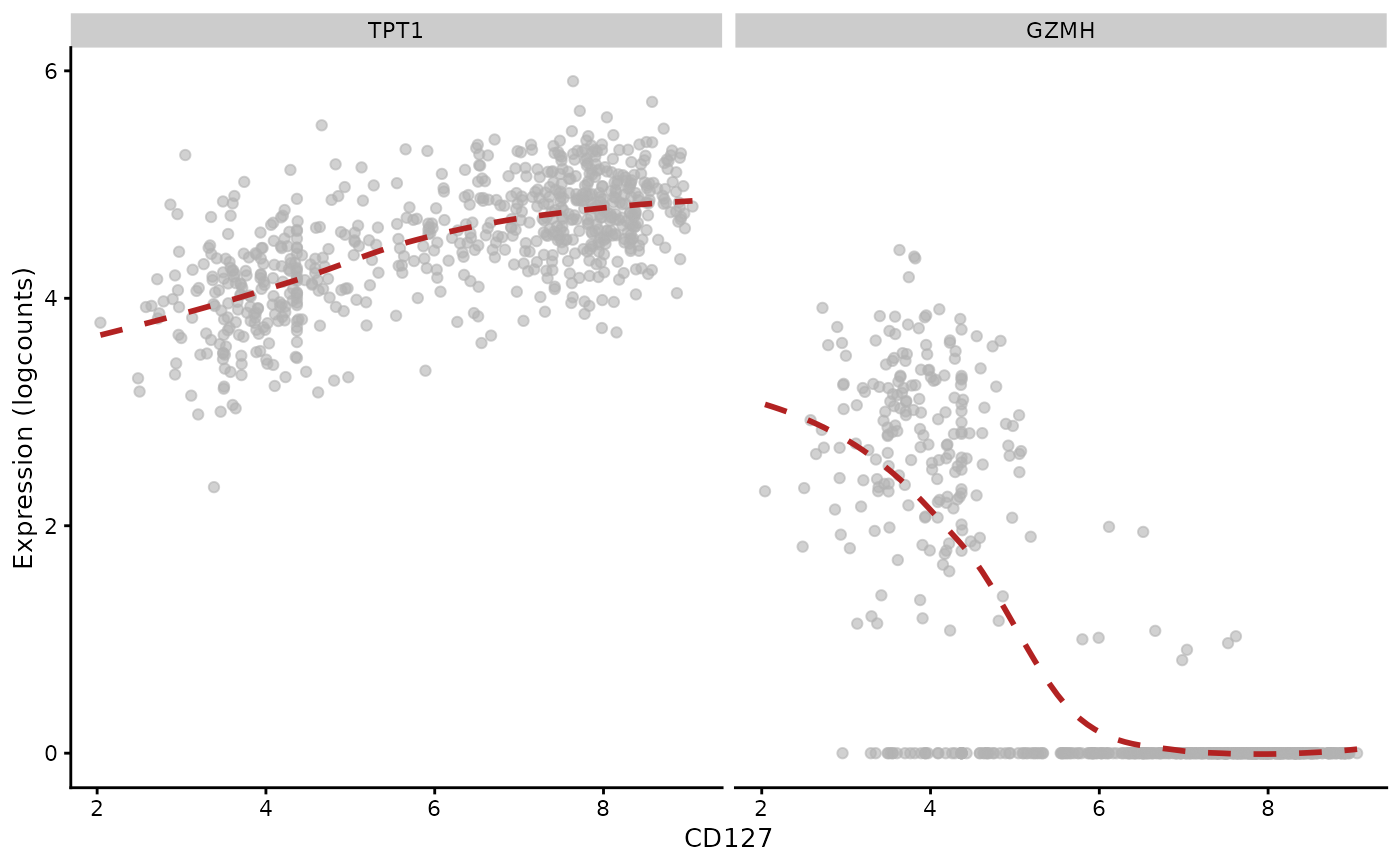
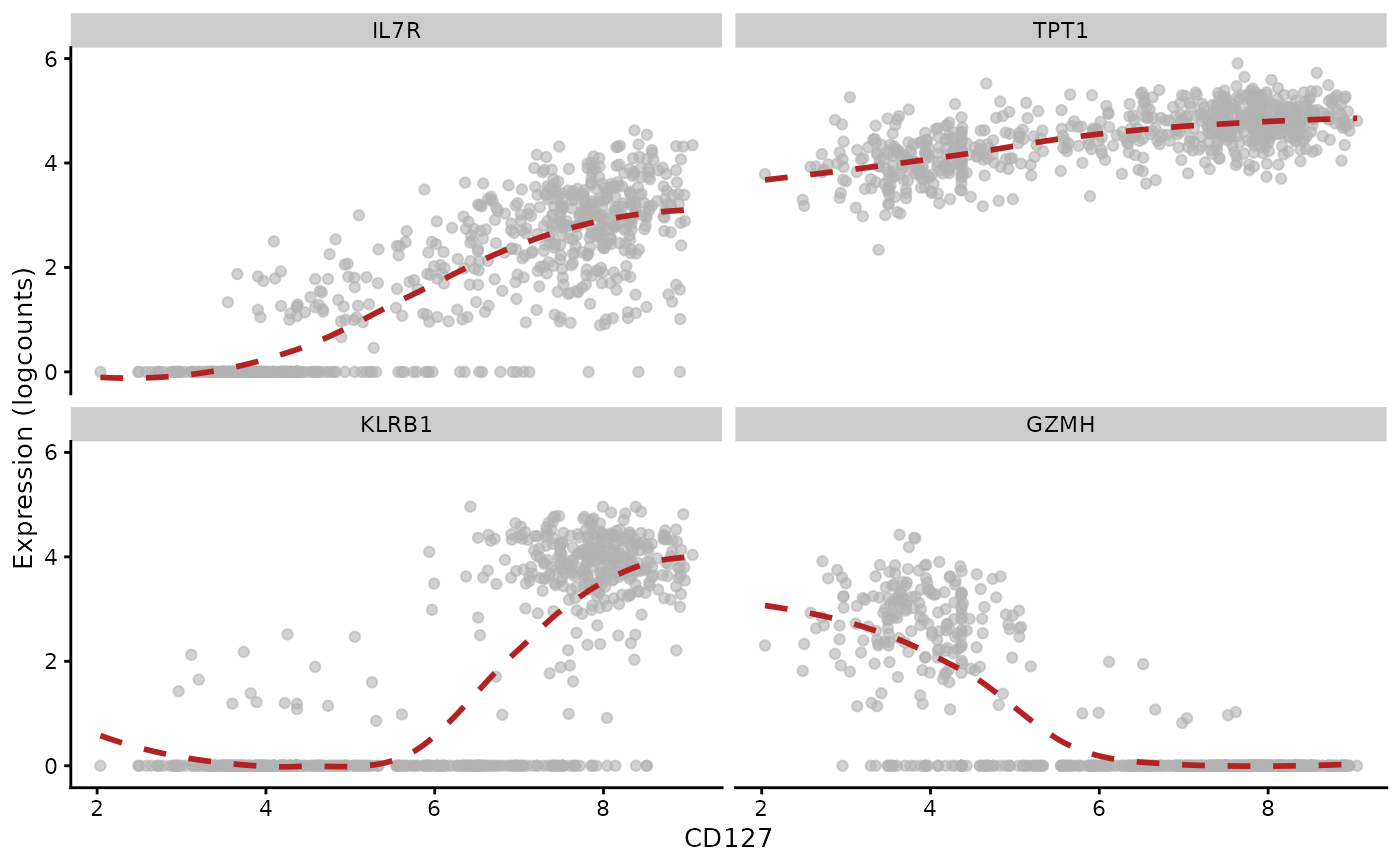
docs and vig

diff --git a/docs/articles/compch12.html b/docs/articles/compch12.html
@@ -203,13 +203,23 @@
 <span><span class="co"># organize the totalVI into SCE with altExp</span></span>
 <span></span>
 <span><span class="va">totsce</span> <span class="op">=</span> <span class="fu"><a href="https://rdrr.io/pkg/SingleCellExperiment/man/SingleCellExperiment.html" class="external-link">SingleCellExperiment</a></span><span class="op">(</span><span class="fu">SimpleList</span><span class="op">(</span>logcounts<span class="op">=</span><span class="fu"><a href="https://rdrr.io/r/base/t.html" class="external-link">t</a></span><span class="op">(</span><span class="va">totvi_denoised_rna</span><span class="op">)</span><span class="op">)</span><span class="op">)</span> <span class="co"># FALSE name</span></span>
+<span><span class="fu"><a href="https://rdrr.io/pkg/SummarizedExperiment/man/SummarizedExperiment-class.html" class="external-link">rowData</a></span><span class="op">(</span><span class="va">totsce</span><span class="op">)</span> <span class="op">=</span> <span class="fu">S4Vectors</span><span class="fu">::</span><span class="fu"><a href="https://rdrr.io/pkg/S4Vectors/man/DataFrame-class.html" class="external-link">DataFrame</a></span><span class="op">(</span><span class="va">fullvi</span><span class="op">$</span><span class="va">var</span><span class="op">)</span></span>
+<span><span class="fu"><a href="https://rdrr.io/r/base/colnames.html" class="external-link">rownames</a></span><span class="op">(</span><span class="va">totsce</span><span class="op">)</span> <span class="op">=</span> <span class="fu"><a href="https://rdrr.io/r/base/colnames.html" class="external-link">rownames</a></span><span class="op">(</span><span class="va">fullvi</span><span class="op">$</span><span class="va">var</span><span class="op">)</span></span>
+<span><span class="fu"><a href="https://rdrr.io/pkg/SummarizedExperiment/man/SummarizedExperiment-class.html" class="external-link">rowData</a></span><span class="op">(</span><span class="va">totsce</span><span class="op">)</span><span class="op">$</span><span class="va">Symbol</span> <span class="op">=</span> <span class="fu"><a href="https://rdrr.io/r/base/colnames.html" class="external-link">rownames</a></span><span class="op">(</span><span class="va">totsce</span><span class="op">)</span></span>
 <span><span class="va">nn</span> <span class="op">=</span> <span class="fu"><a href="https://rdrr.io/pkg/SingleCellExperiment/man/SingleCellExperiment.html" class="external-link">SingleCellExperiment</a></span><span class="op">(</span><span class="fu">SimpleList</span><span class="op">(</span>logcounts<span class="op">=</span><span class="fu"><a href="https://rdrr.io/r/base/t.html" class="external-link">t</a></span><span class="op">(</span><span class="va">totvi_denoised_protein</span><span class="op">)</span><span class="op">)</span><span class="op">)</span> <span class="co"># FALSE name</span></span>
 <span><span class="fu"><a href="https://rdrr.io/pkg/SingleCellExperiment/man/reducedDims.html" class="external-link">reducedDims</a></span><span class="op">(</span><span class="va">nn</span><span class="op">)</span> <span class="op">=</span> <span class="fu"><a href="https://rdrr.io/r/base/list.html" class="external-link">list</a></span><span class="op">(</span>UMAP<span class="op">=</span><span class="va">totvi_umap</span><span class="op">)</span></span>
 <span><span class="fu"><a href="https://rdrr.io/pkg/SingleCellExperiment/man/altExps.html" class="external-link">altExp</a></span><span class="op">(</span><span class="va">totsce</span><span class="op">)</span> <span class="op">=</span> <span class="va">nn</span></span>
 <span><span class="fu"><a href="https://rdrr.io/pkg/SingleCellExperiment/man/altExps.html" class="external-link">altExpNames</a></span><span class="op">(</span><span class="va">totsce</span><span class="op">)</span> <span class="op">=</span> <span class="st">"denoised_protein"</span></span>
 <span><span class="va">totsce</span><span class="op">$</span><span class="va">leiden</span> <span class="op">=</span> <span class="va">totvi_leiden</span></span>
 <span><span class="fu"><a href="https://rdrr.io/pkg/SingleCellExperiment/man/altExps.html" class="external-link">altExp</a></span><span class="op">(</span><span class="va">totsce</span><span class="op">)</span><span class="op">$</span><span class="va">leiden</span> <span class="op">=</span> <span class="va">totvi_leiden</span></span>
-<span><span class="fu"><a href="https://rdrr.io/pkg/SingleCellExperiment/man/altExps.html" class="external-link">altExp</a></span><span class="op">(</span><span class="va">totsce</span><span class="op">)</span><span class="op">$</span><span class="va">ch12.clusters</span> <span class="op">=</span> <span class="fu"><a href="https://rdrr.io/pkg/SingleCellExperiment/man/altExps.html" class="external-link">altExp</a></span><span class="op">(</span><span class="va">ch12sce</span><span class="op">[</span>,<span class="va">comm</span><span class="op">]</span><span class="op">)</span><span class="op">$</span><span class="va">label</span></span></code></pre></div>
+<span><span class="fu"><a href="https://rdrr.io/pkg/SingleCellExperiment/man/altExps.html" class="external-link">altExp</a></span><span class="op">(</span><span class="va">totsce</span><span class="op">)</span><span class="op">$</span><span class="va">ch12.clusters</span> <span class="op">=</span> <span class="fu"><a href="https://rdrr.io/pkg/SingleCellExperiment/man/altExps.html" class="external-link">altExp</a></span><span class="op">(</span><span class="va">ch12sce</span><span class="op">[</span>,<span class="va">comm</span><span class="op">]</span><span class="op">)</span><span class="op">$</span><span class="va">label</span></span>
+<span></span>
+<span><span class="co"># add average ADT abundance to metadata, for adt_profiles</span></span>
+<span></span>
+<span><span class="va">tot.se.averaged</span> <span class="op">&lt;-</span> <span class="fu"><a href="https://rdrr.io/pkg/scuttle/man/sumCountsAcrossCells.html" class="external-link">sumCountsAcrossCells</a></span><span class="op">(</span><span class="fu"><a href="https://rdrr.io/pkg/SingleCellExperiment/man/altExps.html" class="external-link">altExp</a></span><span class="op">(</span><span class="va">totsce</span><span class="op">)</span>, <span class="fu"><a href="https://rdrr.io/pkg/SingleCellExperiment/man/altExps.html" class="external-link">altExp</a></span><span class="op">(</span><span class="va">totsce</span><span class="op">)</span><span class="op">$</span><span class="va">leiden</span>,</span>
+<span>    exprs_values<span class="op">=</span><span class="st">"logcounts"</span>, average<span class="op">=</span><span class="cn">TRUE</span><span class="op">)</span></span>
+<span><span class="fu"><a href="https://rdrr.io/r/base/colnames.html" class="external-link">rownames</a></span><span class="op">(</span><span class="va">tot.se.averaged</span><span class="op">)</span> <span class="op">=</span> <span class="fu"><a href="https://rdrr.io/r/base/grep.html" class="external-link">gsub</a></span><span class="op">(</span><span class="st">"_TotalSeqB"</span>, <span class="st">""</span>, <span class="fu"><a href="https://rdrr.io/r/base/colnames.html" class="external-link">rownames</a></span><span class="op">(</span><span class="va">tot.se.averaged</span><span class="op">)</span><span class="op">)</span></span>
+<span><span class="fu">metadata</span><span class="op">(</span><span class="va">totsce</span><span class="op">)</span><span class="op">$</span><span class="va">se.averaged</span> <span class="op">=</span> <span class="va">tot.se.averaged</span></span></code></pre></div>
 </div>
 <div class="section level4">
 <h4 id="reduce-the-chapter-12-dataset-to-the-cells-held-in-common">Reduce the chapter 12 dataset to the cells held in common<a class="anchor" aria-label="anchor" href="#reduce-the-chapter-12-dataset-to-the-cells-held-in-common"></a>
@@ -260,12 +270,87 @@
 <div class="section level3">
 <h3 id="graduated-relationships-between-mrna-and-surface-protein-expression">Graduated relationships between mRNA and surface protein expression<a class="anchor" aria-label="anchor" href="#graduated-relationships-between-mrna-and-surface-protein-expression"></a>
 </h3>
-<p>Following the exploration in OSCA chapter 12, cluster 3 is analyzed for a regression association between expression measures of two genes and the ADT-based abundance of CD127.</p>
+<p>Following the exploration in OSCA chapter 12, cluster 3 is analyzed for a regression association between expression measures of three genes and the ADT-based abundance of CD127.</p>
 <div class="sourceCode" id="cb17"><pre class="downlit sourceCode r">
 <code class="sourceCode R"><span><span class="fu"><a href="https://rdrr.io/pkg/scater/man/plotExpression.html" class="external-link">plotExpression</a></span><span class="op">(</span><span class="va">ch12_allsce</span><span class="op">[[</span><span class="st">"3"</span><span class="op">]</span><span class="op">]</span>, x<span class="op">=</span><span class="st">"CD127"</span>, show_smooth<span class="op">=</span><span class="cn">TRUE</span>, show_se<span class="op">=</span><span class="cn">FALSE</span>, </span>
-<span>    features<span class="op">=</span><span class="fu"><a href="https://rdrr.io/r/base/c.html" class="external-link">c</a></span><span class="op">(</span><span class="st">"TPT1"</span>, <span class="st">"GZMH"</span><span class="op">)</span>, swap_rownames<span class="op">=</span><span class="st">"Symbol"</span><span class="op">)</span></span></code></pre></div>
+<span>    features<span class="op">=</span><span class="fu"><a href="https://rdrr.io/r/base/c.html" class="external-link">c</a></span><span class="op">(</span><span class="st">"IL7R"</span>, <span class="st">"TPT1"</span>, <span class="st">"KLRB1"</span>, <span class="st">"GZMH"</span><span class="op">)</span>, swap_rownames<span class="op">=</span><span class="st">"Symbol"</span><span class="op">)</span></span></code></pre></div>
 <pre><code><span><span class="co">## `geom_smooth()` using method = 'loess' and formula = 'y ~ x'</span></span></code></pre>
 <p><img src="compch12_files/figure-html/lkgra-1.png" width="700"></p>
+</div>
+</div>
+<div class="section level2">
+<h2 id="analogs-to-the-chapter-12-findings-based-on-totalvi-quantifications">Analogs to the chapter 12 findings, based on totalVI quantifications<a class="anchor" aria-label="anchor" href="#analogs-to-the-chapter-12-findings-based-on-totalvi-quantifications"></a>
+</h2>
+<div class="section level3">
+<h3 id="the-leiden-clustering-in-umap-projection">The Leiden clustering in UMAP projection<a class="anchor" aria-label="anchor" href="#the-leiden-clustering-in-umap-projection"></a>
+</h3>
+<div class="sourceCode" id="cb19"><pre class="downlit sourceCode r">
+<code class="sourceCode R"><span><span class="fu"><a href="https://rdrr.io/pkg/scater/man/plot_reddim.html" class="external-link">plotUMAP</a></span><span class="op">(</span><span class="fu"><a href="https://rdrr.io/pkg/SingleCellExperiment/man/altExps.html" class="external-link">altExp</a></span><span class="op">(</span><span class="va">totsce</span><span class="op">)</span>, color_by<span class="op">=</span><span class="st">"leiden"</span>, text_by<span class="op">=</span><span class="st">"leiden"</span><span class="op">)</span></span></code></pre></div>
+<p><img src="compch12_files/figure-html/lktotumap-1.png" width="700"></p>
+</div>
+<div class="section level3">
+<h3 id="cluster-profiles-based-on-average-adt-abundance-using-denoised-protein-quantifications">Cluster profiles based on average ADT abundance, using denoised protein quantifications<a class="anchor" aria-label="anchor" href="#cluster-profiles-based-on-average-adt-abundance-using-denoised-protein-quantifications"></a>
+</h3>
+<p>The approach to profiling the ADT abundances used in the totalVI tutorial employs scaling to (0,1).</p>
+<div class="sourceCode" id="cb20"><pre class="downlit sourceCode r">
+<code class="sourceCode R"><span><span class="va">tav</span> <span class="op">=</span> <span class="fu">S4Vectors</span><span class="fu">::</span><span class="fu"><a href="https://rdrr.io/pkg/S4Vectors/man/Annotated-class.html" class="external-link">metadata</a></span><span class="op">(</span><span class="va">totsce</span><span class="op">)</span><span class="op">$</span><span class="va">se.averaged</span></span>
+<span><span class="va">ata</span> <span class="op">=</span> <span class="fu"><a href="https://rdrr.io/pkg/SummarizedExperiment/man/SummarizedExperiment-class.html" class="external-link">assay</a></span><span class="op">(</span><span class="va">tav</span><span class="op">)</span></span>
+<span><span class="va">uscale</span> <span class="op">=</span> <span class="kw">function</span><span class="op">(</span><span class="va">x</span><span class="op">)</span> <span class="op">(</span><span class="va">x</span><span class="op">-</span><span class="fu"><a href="https://rdrr.io/r/base/Extremes.html" class="external-link">min</a></span><span class="op">(</span><span class="va">x</span><span class="op">)</span><span class="op">)</span><span class="op">/</span><span class="fu"><a href="https://rdrr.io/r/base/Extremes.html" class="external-link">max</a></span><span class="op">(</span><span class="va">x</span><span class="op">)</span></span>
+<span><span class="va">scmat</span> <span class="op">=</span> <span class="fu"><a href="https://rdrr.io/r/base/t.html" class="external-link">t</a></span><span class="op">(</span><span class="fu"><a href="https://rdrr.io/r/base/apply.html" class="external-link">apply</a></span><span class="op">(</span><span class="va">ata</span>,<span class="fl">1</span>,<span class="va">uscale</span><span class="op">)</span><span class="op">)</span></span>
+<span><span class="fu">pheatmap</span><span class="fu">::</span><span class="fu"><a href="https://rdrr.io/pkg/pheatmap/man/pheatmap.html" class="external-link">pheatmap</a></span><span class="op">(</span><span class="va">scmat</span>, cluster_rows<span class="op">=</span><span class="cn">FALSE</span><span class="op">)</span></span></code></pre></div>
+<p><img src="compch12_files/figure-html/domattot-1.png" width="700"></p>
+</div>
+<div class="section level3">
+<h3 id="concordance-in-adt-based-clustering-between-osca-and-totalvi">Concordance in ADT-based clustering between OSCA and totalVI<a class="anchor" aria-label="anchor" href="#concordance-in-adt-based-clustering-between-osca-and-totalvi"></a>
+</h3>
+<p>A quick view of the concordance of the two clustering outcomes is</p>
+<div class="sourceCode" id="cb21"><pre class="downlit sourceCode r">
+<code class="sourceCode R"><span><span class="va">atot</span> <span class="op">=</span> <span class="fu"><a href="https://rdrr.io/pkg/SingleCellExperiment/man/altExps.html" class="external-link">altExp</a></span><span class="op">(</span><span class="va">totsce</span><span class="op">)</span></span>
+<span><span class="va">ach12</span> <span class="op">=</span> <span class="fu"><a href="https://rdrr.io/pkg/SingleCellExperiment/man/altExps.html" class="external-link">altExp</a></span><span class="op">(</span><span class="va">ch12sce_matched</span><span class="op">)</span></span>
+<span><span class="va">tt</span> <span class="op">=</span> <span class="fu"><a href="https://rdrr.io/r/base/table.html" class="external-link">table</a></span><span class="op">(</span>ch12<span class="op">=</span><span class="va">ach12</span><span class="op">$</span><span class="va">label</span>, VI<span class="op">=</span><span class="va">atot</span><span class="op">$</span><span class="va">leiden</span><span class="op">)</span></span>
+<span><span class="fu">pheatmap</span><span class="fu">::</span><span class="fu"><a href="https://rdrr.io/pkg/pheatmap/man/pheatmap.html" class="external-link">pheatmap</a></span><span class="op">(</span><span class="fu"><a href="https://rdrr.io/r/base/Log.html" class="external-link">log</a></span><span class="op">(</span><span class="va">tt</span><span class="op">+</span><span class="fl">1</span><span class="op">)</span><span class="op">)</span></span></code></pre></div>
+<p><img src="compch12_files/figure-html/lkconc-1.png" width="700"></p>
+<p>With this we can pick out some clusters with many cells in common:</p>
+<div class="sourceCode" id="cb22"><pre class="downlit sourceCode r">
+<code class="sourceCode R"><span><span class="va">lit</span> <span class="op">=</span> <span class="va">tt</span><span class="op">[</span><span class="fu"><a href="https://rdrr.io/r/base/c.html" class="external-link">c</a></span><span class="op">(</span><span class="st">"9"</span>, <span class="st">"12"</span>, <span class="st">"5"</span>, <span class="st">"3"</span><span class="op">)</span>, <span class="fu"><a href="https://rdrr.io/r/base/c.html" class="external-link">c</a></span><span class="op">(</span><span class="st">"0"</span>, <span class="st">"1"</span>, <span class="st">"2"</span>, <span class="st">"8"</span>, <span class="st">"6"</span>, <span class="st">"5"</span><span class="op">)</span><span class="op">]</span></span>
+<span><span class="fu"><a href="https://rdrr.io/r/base/colnames.html" class="external-link">rownames</a></span><span class="op">(</span><span class="va">lit</span><span class="op">)</span> <span class="op">=</span> <span class="fu"><a href="https://rdrr.io/r/base/sQuote.html" class="external-link">sQuote</a></span><span class="op">(</span><span class="fu"><a href="https://rdrr.io/r/base/colnames.html" class="external-link">rownames</a></span><span class="op">(</span><span class="va">lit</span><span class="op">)</span><span class="op">)</span></span>
+<span><span class="fu"><a href="https://rdrr.io/r/base/colnames.html" class="external-link">colnames</a></span><span class="op">(</span><span class="va">lit</span><span class="op">)</span> <span class="op">=</span> <span class="fu"><a href="https://rdrr.io/r/base/sQuote.html" class="external-link">sQuote</a></span><span class="op">(</span><span class="fu"><a href="https://rdrr.io/r/base/colnames.html" class="external-link">colnames</a></span><span class="op">(</span><span class="va">lit</span><span class="op">)</span><span class="op">)</span></span>
+<span><span class="va">lit</span></span></code></pre></div>
+<pre><code><span><span class="co">##       VI</span></span>
+<span><span class="co">## ch12    '0'  '1'  '2'  '8'  '6'  '5'</span></span>
+<span><span class="co">##   '9'  1334    0    0    0    0    0</span></span>
+<span><span class="co">##   '12'    0  993    0    0   15    0</span></span>
+<span><span class="co">##   '5'     0  102  671    8   44    2</span></span>
+<span><span class="co">##   '3'     0    0    5  322  297   67</span></span></code></pre>
+</div>
+<div class="section level3">
+<h3 id="subcluster-assessment-for-osca-cluster-3">Subcluster assessment for OSCA cluster “3”<a class="anchor" aria-label="anchor" href="#subcluster-assessment-for-osca-cluster-3"></a>
+</h3>
+<p>Let’s examine the distributions of marker mRNAs in the Leiden totalVI clusters corresponding to OSCA cluster “3”:</p>
+<div class="sourceCode" id="cb24"><pre class="downlit sourceCode r">
+<code class="sourceCode R"><span><span class="va">tsub</span> <span class="op">=</span> <span class="va">totsce</span><span class="op">[</span>,<span class="fu"><a href="https://rdrr.io/r/base/which.html" class="external-link">which</a></span><span class="op">(</span><span class="fu"><a href="https://rdrr.io/pkg/SingleCellExperiment/man/altExps.html" class="external-link">altExp</a></span><span class="op">(</span><span class="va">totsce</span><span class="op">)</span><span class="op">$</span><span class="va">leiden</span> <span class="op"><a href="https://rdrr.io/r/base/match.html" class="external-link">%in%</a></span> <span class="fu"><a href="https://rdrr.io/r/base/c.html" class="external-link">c</a></span><span class="op">(</span><span class="st">"5"</span>, <span class="st">"6"</span>, <span class="st">"8"</span><span class="op">)</span><span class="op">)</span><span class="op">]</span></span>
+<span><span class="va">markers</span> <span class="op">&lt;-</span> <span class="fu"><a href="https://rdrr.io/r/base/c.html" class="external-link">c</a></span><span class="op">(</span><span class="st">"GZMH"</span>, <span class="st">"IL7R"</span>, <span class="st">"KLRB1"</span><span class="op">)</span></span>
+<span><span class="fu"><a href="https://rdrr.io/pkg/SingleCellExperiment/man/altExps.html" class="external-link">altExp</a></span><span class="op">(</span><span class="va">tsub</span><span class="op">)</span><span class="op">$</span><span class="va">leiden</span> <span class="op">=</span> <span class="fu"><a href="https://rdrr.io/r/base/factor.html" class="external-link">factor</a></span><span class="op">(</span><span class="fu"><a href="https://rdrr.io/pkg/SingleCellExperiment/man/altExps.html" class="external-link">altExp</a></span><span class="op">(</span><span class="va">tsub</span><span class="op">)</span><span class="op">$</span><span class="va">leiden</span><span class="op">)</span> <span class="co"># squelch unused levels</span></span>
+<span><span class="va">tsub</span><span class="op">$</span><span class="va">leiden</span> <span class="op">=</span> <span class="fu"><a href="https://rdrr.io/r/base/factor.html" class="external-link">factor</a></span><span class="op">(</span><span class="va">tsub</span><span class="op">$</span><span class="va">leiden</span><span class="op">)</span> <span class="co"># squelch unused levels</span></span>
+<span><span class="fu"><a href="https://rdrr.io/pkg/scater/man/plotExpression.html" class="external-link">plotExpression</a></span><span class="op">(</span><span class="va">tsub</span>, x<span class="op">=</span><span class="st">"leiden"</span>,</span>
+<span>    features<span class="op">=</span><span class="va">markers</span>, swap_rownames<span class="op">=</span><span class="st">"Symbol"</span>, ncol<span class="op">=</span><span class="fl">3</span><span class="op">)</span></span></code></pre></div>
+<p><img src="compch12_files/figure-html/lksubsss-1.png" width="700"></p>
+<p>Note that the y axis label is incorrect – we are plotting the denoised expression values from totalVI.</p>
+<p>The display seems roughly consistent with the “boolean basis” observed above with the mRNA-based subclustering.</p>
+</div>
+<div class="section level3">
+<h3 id="graduated-relationships-between-adt-and-mrna-abundance-as-measured-by-totalvi">Graduated relationships between ADT and mRNA abundance as measured by totalVI<a class="anchor" aria-label="anchor" href="#graduated-relationships-between-adt-and-mrna-abundance-as-measured-by-totalvi"></a>
+</h3>
+<p>The same approach is taken as above. We don’t have TPT1 in the 4000 genes retained in the totalVI exercise.</p>
+<div class="sourceCode" id="cb25"><pre class="downlit sourceCode r">
+<code class="sourceCode R"><span><span class="va">rn</span> <span class="op">=</span> <span class="fu"><a href="https://rdrr.io/r/base/colnames.html" class="external-link">rownames</a></span><span class="op">(</span><span class="fu"><a href="https://rdrr.io/pkg/SingleCellExperiment/man/altExps.html" class="external-link">altExp</a></span><span class="op">(</span><span class="va">tsub</span><span class="op">)</span><span class="op">)</span></span>
+<span><span class="va">rn</span> <span class="op">=</span> <span class="fu"><a href="https://rdrr.io/r/base/grep.html" class="external-link">gsub</a></span><span class="op">(</span><span class="st">"_TotalSeqB"</span>, <span class="st">""</span>, <span class="va">rn</span><span class="op">)</span></span>
+<span><span class="fu"><a href="https://rdrr.io/r/base/colnames.html" class="external-link">rownames</a></span><span class="op">(</span><span class="fu"><a href="https://rdrr.io/pkg/SingleCellExperiment/man/altExps.html" class="external-link">altExp</a></span><span class="op">(</span><span class="va">tsub</span><span class="op">)</span><span class="op">)</span> <span class="op">=</span> <span class="va">rn</span></span>
+<span><span class="fu"><a href="https://rdrr.io/pkg/SummarizedExperiment/man/SummarizedExperiment-class.html" class="external-link">rowData</a></span><span class="op">(</span><span class="fu"><a href="https://rdrr.io/pkg/SingleCellExperiment/man/altExps.html" class="external-link">altExp</a></span><span class="op">(</span><span class="va">tsub</span><span class="op">)</span><span class="op">)</span> <span class="op">=</span> <span class="fu">DataFrame</span><span class="op">(</span>Symbol<span class="op">=</span><span class="va">rn</span><span class="op">)</span></span>
+<span><span class="fu"><a href="https://rdrr.io/pkg/scater/man/plotExpression.html" class="external-link">plotExpression</a></span><span class="op">(</span><span class="va">tsub</span>, x<span class="op">=</span><span class="st">"CD127"</span>, show_smooth<span class="op">=</span><span class="cn">TRUE</span>, show_se<span class="op">=</span><span class="cn">FALSE</span>,</span>
+<span>   features<span class="op">=</span><span class="fu"><a href="https://rdrr.io/r/base/c.html" class="external-link">c</a></span><span class="op">(</span><span class="st">"IL7R"</span>, <span class="st">"KLRB1"</span>, <span class="st">"GZMH"</span><span class="op">)</span>, swap_rownames<span class="op">=</span><span class="st">"Symbol"</span><span class="op">)</span></span></code></pre></div>
+<pre><code><span><span class="co">## `geom_smooth()` using method = 'gam' and formula = 'y ~ s(x, bs = "cs")'</span></span></code></pre>
+<p><img src="compch12_files/figure-html/lkgradvi-1.png" width="700"></p>
 </div>
 </div>
   </div>

diff --git a/docs/reference/adt_profiles.html b/docs/reference/adt_profiles.html
@@ -105,83 +105,6 @@ defaults to false</p></dd>
     <div id="ref-examples">
     <h2>Examples</h2>
     <div class="sourceCode"><pre class="sourceCode r"><code><span class="r-in"><span><span class="va">ch12sce</span> <span class="op">=</span> <span class="fu"><a href="get_ch12sce.html">get_ch12sce</a></span><span class="op">(</span><span class="op">)</span></span></span>
-<span class="r-msg co"><span class="r-pr">#&gt;</span> Loading required package: SingleCellExperiment</span>
-<span class="r-msg co"><span class="r-pr">#&gt;</span> Loading required package: SummarizedExperiment</span>
-<span class="r-msg co"><span class="r-pr">#&gt;</span> Loading required package: MatrixGenerics</span>
-<span class="r-msg co"><span class="r-pr">#&gt;</span> Loading required package: matrixStats</span>
-<span class="r-msg co"><span class="r-pr">#&gt;</span> </span>
-<span class="r-msg co"><span class="r-pr">#&gt;</span> Attaching package: ‘matrixStats’</span>
-<span class="r-msg co"><span class="r-pr">#&gt;</span> The following object is masked from ‘package:dplyr’:</span>
-<span class="r-msg co"><span class="r-pr">#&gt;</span> </span>
-<span class="r-msg co"><span class="r-pr">#&gt;</span>     count</span>
-<span class="r-msg co"><span class="r-pr">#&gt;</span> </span>
-<span class="r-msg co"><span class="r-pr">#&gt;</span> Attaching package: ‘MatrixGenerics’</span>
-<span class="r-msg co"><span class="r-pr">#&gt;</span> The following objects are masked from ‘package:matrixStats’:</span>
-<span class="r-msg co"><span class="r-pr">#&gt;</span> </span>
-<span class="r-msg co"><span class="r-pr">#&gt;</span>     colAlls, colAnyNAs, colAnys, colAvgsPerRowSet, colCollapse,</span>
-<span class="r-msg co"><span class="r-pr">#&gt;</span>     colCounts, colCummaxs, colCummins, colCumprods, colCumsums,</span>
-<span class="r-msg co"><span class="r-pr">#&gt;</span>     colDiffs, colIQRDiffs, colIQRs, colLogSumExps, colMadDiffs,</span>
-<span class="r-msg co"><span class="r-pr">#&gt;</span>     colMads, colMaxs, colMeans2, colMedians, colMins, colOrderStats,</span>
-<span class="r-msg co"><span class="r-pr">#&gt;</span>     colProds, colQuantiles, colRanges, colRanks, colSdDiffs, colSds,</span>
-<span class="r-msg co"><span class="r-pr">#&gt;</span>     colSums2, colTabulates, colVarDiffs, colVars, colWeightedMads,</span>
-<span class="r-msg co"><span class="r-pr">#&gt;</span>     colWeightedMeans, colWeightedMedians, colWeightedSds,</span>
-<span class="r-msg co"><span class="r-pr">#&gt;</span>     colWeightedVars, rowAlls, rowAnyNAs, rowAnys, rowAvgsPerColSet,</span>
-<span class="r-msg co"><span class="r-pr">#&gt;</span>     rowCollapse, rowCounts, rowCummaxs, rowCummins, rowCumprods,</span>
-<span class="r-msg co"><span class="r-pr">#&gt;</span>     rowCumsums, rowDiffs, rowIQRDiffs, rowIQRs, rowLogSumExps,</span>
-<span class="r-msg co"><span class="r-pr">#&gt;</span>     rowMadDiffs, rowMads, rowMaxs, rowMeans2, rowMedians, rowMins,</span>
-<span class="r-msg co"><span class="r-pr">#&gt;</span>     rowOrderStats, rowProds, rowQuantiles, rowRanges, rowRanks,</span>
-<span class="r-msg co"><span class="r-pr">#&gt;</span>     rowSdDiffs, rowSds, rowSums2, rowTabulates, rowVarDiffs, rowVars,</span>
-<span class="r-msg co"><span class="r-pr">#&gt;</span>     rowWeightedMads, rowWeightedMeans, rowWeightedMedians,</span>
-<span class="r-msg co"><span class="r-pr">#&gt;</span>     rowWeightedSds, rowWeightedVars</span>
-<span class="r-msg co"><span class="r-pr">#&gt;</span> Loading required package: GenomicRanges</span>
-<span class="r-msg co"><span class="r-pr">#&gt;</span> Loading required package: stats4</span>
-<span class="r-msg co"><span class="r-pr">#&gt;</span> Loading required package: BiocGenerics</span>
-<span class="r-msg co"><span class="r-pr">#&gt;</span> </span>
-<span class="r-msg co"><span class="r-pr">#&gt;</span> Attaching package: ‘BiocGenerics’</span>
-<span class="r-msg co"><span class="r-pr">#&gt;</span> The following objects are masked from ‘package:dplyr’:</span>
-<span class="r-msg co"><span class="r-pr">#&gt;</span> </span>
-<span class="r-msg co"><span class="r-pr">#&gt;</span>     combine, intersect, setdiff, union</span>
-<span class="r-msg co"><span class="r-pr">#&gt;</span> The following objects are masked from ‘package:stats’:</span>
-<span class="r-msg co"><span class="r-pr">#&gt;</span> </span>
-<span class="r-msg co"><span class="r-pr">#&gt;</span>     IQR, mad, sd, var, xtabs</span>
-<span class="r-msg co"><span class="r-pr">#&gt;</span> The following objects are masked from ‘package:base’:</span>
-<span class="r-msg co"><span class="r-pr">#&gt;</span> </span>
-<span class="r-msg co"><span class="r-pr">#&gt;</span>     Filter, Find, Map, Position, Reduce, anyDuplicated, aperm, append,</span>
-<span class="r-msg co"><span class="r-pr">#&gt;</span>     as.data.frame, basename, cbind, colnames, dirname, do.call,</span>
-<span class="r-msg co"><span class="r-pr">#&gt;</span>     duplicated, eval, evalq, get, grep, grepl, intersect, is.unsorted,</span>
-<span class="r-msg co"><span class="r-pr">#&gt;</span>     lapply, mapply, match, mget, order, paste, pmax, pmax.int, pmin,</span>
-<span class="r-msg co"><span class="r-pr">#&gt;</span>     pmin.int, rank, rbind, rownames, sapply, setdiff, sort, table,</span>
-<span class="r-msg co"><span class="r-pr">#&gt;</span>     tapply, union, unique, unsplit, which.max, which.min</span>
-<span class="r-msg co"><span class="r-pr">#&gt;</span> Loading required package: S4Vectors</span>
-<span class="r-msg co"><span class="r-pr">#&gt;</span> </span>
-<span class="r-msg co"><span class="r-pr">#&gt;</span> Attaching package: ‘S4Vectors’</span>
-<span class="r-msg co"><span class="r-pr">#&gt;</span> The following objects are masked from ‘package:dplyr’:</span>
-<span class="r-msg co"><span class="r-pr">#&gt;</span> </span>
-<span class="r-msg co"><span class="r-pr">#&gt;</span>     first, rename</span>
-<span class="r-msg co"><span class="r-pr">#&gt;</span> The following objects are masked from ‘package:base’:</span>
-<span class="r-msg co"><span class="r-pr">#&gt;</span> </span>
-<span class="r-msg co"><span class="r-pr">#&gt;</span>     I, expand.grid, unname</span>
-<span class="r-msg co"><span class="r-pr">#&gt;</span> Loading required package: IRanges</span>
-<span class="r-msg co"><span class="r-pr">#&gt;</span> </span>
-<span class="r-msg co"><span class="r-pr">#&gt;</span> Attaching package: ‘IRanges’</span>
-<span class="r-msg co"><span class="r-pr">#&gt;</span> The following objects are masked from ‘package:dplyr’:</span>
-<span class="r-msg co"><span class="r-pr">#&gt;</span> </span>
-<span class="r-msg co"><span class="r-pr">#&gt;</span>     collapse, desc, slice</span>
-<span class="r-msg co"><span class="r-pr">#&gt;</span> Loading required package: GenomeInfoDb</span>
-<span class="r-msg co"><span class="r-pr">#&gt;</span> Loading required package: Biobase</span>
-<span class="r-msg co"><span class="r-pr">#&gt;</span> Welcome to Bioconductor</span>
-<span class="r-msg co"><span class="r-pr">#&gt;</span> </span>
-<span class="r-msg co"><span class="r-pr">#&gt;</span>     Vignettes contain introductory material; view with</span>
-<span class="r-msg co"><span class="r-pr">#&gt;</span>     'browseVignettes()'. To cite Bioconductor, see</span>
-<span class="r-msg co"><span class="r-pr">#&gt;</span>     'citation("Biobase")', and for packages 'citation("pkgname")'.</span>
-<span class="r-msg co"><span class="r-pr">#&gt;</span> </span>
-<span class="r-msg co"><span class="r-pr">#&gt;</span> Attaching package: ‘Biobase’</span>
-<span class="r-msg co"><span class="r-pr">#&gt;</span> The following object is masked from ‘package:MatrixGenerics’:</span>
-<span class="r-msg co"><span class="r-pr">#&gt;</span> </span>
-<span class="r-msg co"><span class="r-pr">#&gt;</span>     rowMedians</span>
-<span class="r-msg co"><span class="r-pr">#&gt;</span> The following objects are masked from ‘package:matrixStats’:</span>
-<span class="r-msg co"><span class="r-pr">#&gt;</span> </span>
-<span class="r-msg co"><span class="r-pr">#&gt;</span>     anyMissing, rowMedians</span>
 <span class="r-in"><span><span class="fu">adt_profiles</span><span class="op">(</span><span class="va">ch12sce</span><span class="op">)</span></span></span>
 <span class="r-plt img"><img src="adt_profiles-1.png" alt="" width="700" height="433"></span>
 <span class="r-in"><span><span class="fu">adt_profiles</span><span class="op">(</span><span class="va">ch12sce</span>, do_z <span class="op">=</span> <span class="cn">TRUE</span><span class="op">)</span></span></span>

diff --git a/docs/reference/get_subcl_LM.html b/docs/reference/get_subcl_LM.html
@@ -88,7 +88,7 @@ and that 'subcluster' is a colData element of each SCE in inlist</p>
     <div id="ref-examples">
     <h2>Examples</h2>
     <div class="sourceCode"><pre class="sourceCode r"><code><span class="r-in"><span><span class="fu"><a href="https://rdrr.io/r/utils/data.html" class="external-link">data</a></span><span class="op">(</span><span class="va">all.sce</span><span class="op">)</span></span></span>
-<span class="r-wrn co"><span class="r-pr">#&gt;</span> <span class="warning">Warning: </span>data set ‘all.sce’ not found</span>
+<span class="r-wrn co"><span class="r-pr">#&gt;</span> <span class="warning">Warning: </span>data set 'all.sce' not found</span>
 <span class="r-in"><span><span class="va">lm3</span> <span class="op">=</span> <span class="fu">get_subcl_LM</span><span class="op">(</span><span class="va">all.sce</span>, <span class="st">"3"</span><span class="op">)</span></span></span>
 <span class="r-err co"><span class="r-pr">#&gt;</span> <span class="error">Error in get_subcl_LM(all.sce, "3"):</span> object 'all.sce' not found</span>
 <span class="r-in"><span><span class="fu"><a href="https://rdrr.io/r/base/names.html" class="external-link">names</a></span><span class="op">(</span><span class="va">lm3</span><span class="op">)</span></span></span>

diff --git a/docs/reference/get_subclustering_features.html b/docs/reference/get_subclustering_features.html
@@ -97,7 +97,7 @@
     <div id="ref-examples">
     <h2>Examples</h2>
     <div class="sourceCode"><pre class="sourceCode r"><code><span class="r-in"><span><span class="fu"><a href="https://rdrr.io/r/utils/data.html" class="external-link">data</a></span><span class="op">(</span><span class="va">all.sce</span><span class="op">)</span></span></span>
-<span class="r-wrn co"><span class="r-pr">#&gt;</span> <span class="warning">Warning: </span>data set ‘all.sce’ not found</span>
+<span class="r-wrn co"><span class="r-pr">#&gt;</span> <span class="warning">Warning: </span>data set 'all.sce' not found</span>
 <span class="r-in"><span><span class="va">scl</span> <span class="op">=</span> <span class="fu">get_subclustering_features</span><span class="op">(</span><span class="va">all.sce</span>, <span class="st">"3"</span>, <span class="fl">10</span><span class="op">)</span></span></span>
 <span class="r-err co"><span class="r-pr">#&gt;</span> <span class="error">Error in get_subcl_LM(inlist, clname):</span> object 'all.sce' not found</span>
 <span class="r-in"><span><span class="fu"><a href="https://rdrr.io/r/base/names.html" class="external-link">names</a></span><span class="op">(</span><span class="va">scl</span><span class="op">)</span></span></span>

diff --git a/docs/reference/explore_subcl.html b/docs/reference/explore_subcl.html
@@ -97,6 +97,10 @@ example, set `ask=FALSE`.</p>
 <span class="r-in"><span> <span class="fu"><a href="https://rdrr.io/r/utils/data.html" class="external-link">data</a></span><span class="op">(</span><span class="va">clusters.adt</span><span class="op">)</span></span></span>
 <span class="r-in"><span> <span class="fu">explore_subcl</span><span class="op">(</span> <span class="va">sce</span>, <span class="va">all.sce</span>, <span class="va">clusters.adt</span> <span class="op">)</span></span></span>
 <span class="r-in"><span><span class="op">}</span></span></span>
+<span class="r-wrn co"><span class="r-pr">#&gt;</span> <span class="warning">Warning: </span>data set 'sce' not found</span>
+<span class="r-wrn co"><span class="r-pr">#&gt;</span> <span class="warning">Warning: </span>data set 'all.sce' not found</span>
+<span class="r-wrn co"><span class="r-pr">#&gt;</span> <span class="warning">Warning: </span>data set 'clusters.adt' not found</span>
+<span class="r-err co"><span class="r-pr">#&gt;</span> <span class="error">Error in hasGroups(choices):</span> object 'all.sce' not found</span>
 </code></pre></div>
     </div>
   </div>

diff --git a/docs/reference/anndataR.html b/docs/reference/anndataR.html
@@ -76,7 +76,7 @@
 <span class="r-in"><span><span class="va">ad</span></span></span>
 <span class="r-out co"><span class="r-pr">#&gt;</span> Module(anndata)</span>
 <span class="r-in"><span><span class="va">ad</span><span class="op">$</span><span class="va">read</span></span></span>
-<span class="r-out co"><span class="r-pr">#&gt;</span> &lt;function read_h5ad at 0x7fcd74dbf9d0&gt;</span>
+<span class="r-out co"><span class="r-pr">#&gt;</span> &lt;function read_h5ad at 0x7fb44bda4a60&gt;</span>
 </code></pre></div>
     </div>
   </div>

diff --git a/docs/index.html b/docs/index.html
@@ -102,7 +102,12 @@ AnnData object with n_obs × n_vars = 10849 × 4000
 &gt; table(tot$obs$batch)
 
  PBMC5k PBMC10k 
-   3994    6855 </code></pre>
+   3994    6855 
+
+&gt; dim(xx$obsm$get("X_totalVI"))  # cell positions in 20 dimensional latent space
+[1] 10849    20
+</code></pre>
+<p>Vignettes in the package show how to populate a Bioconductor SingleCellExperiment with components of this structure to help compare methods employed in the two frameworks.</p>
 </div>
   </div>
 
